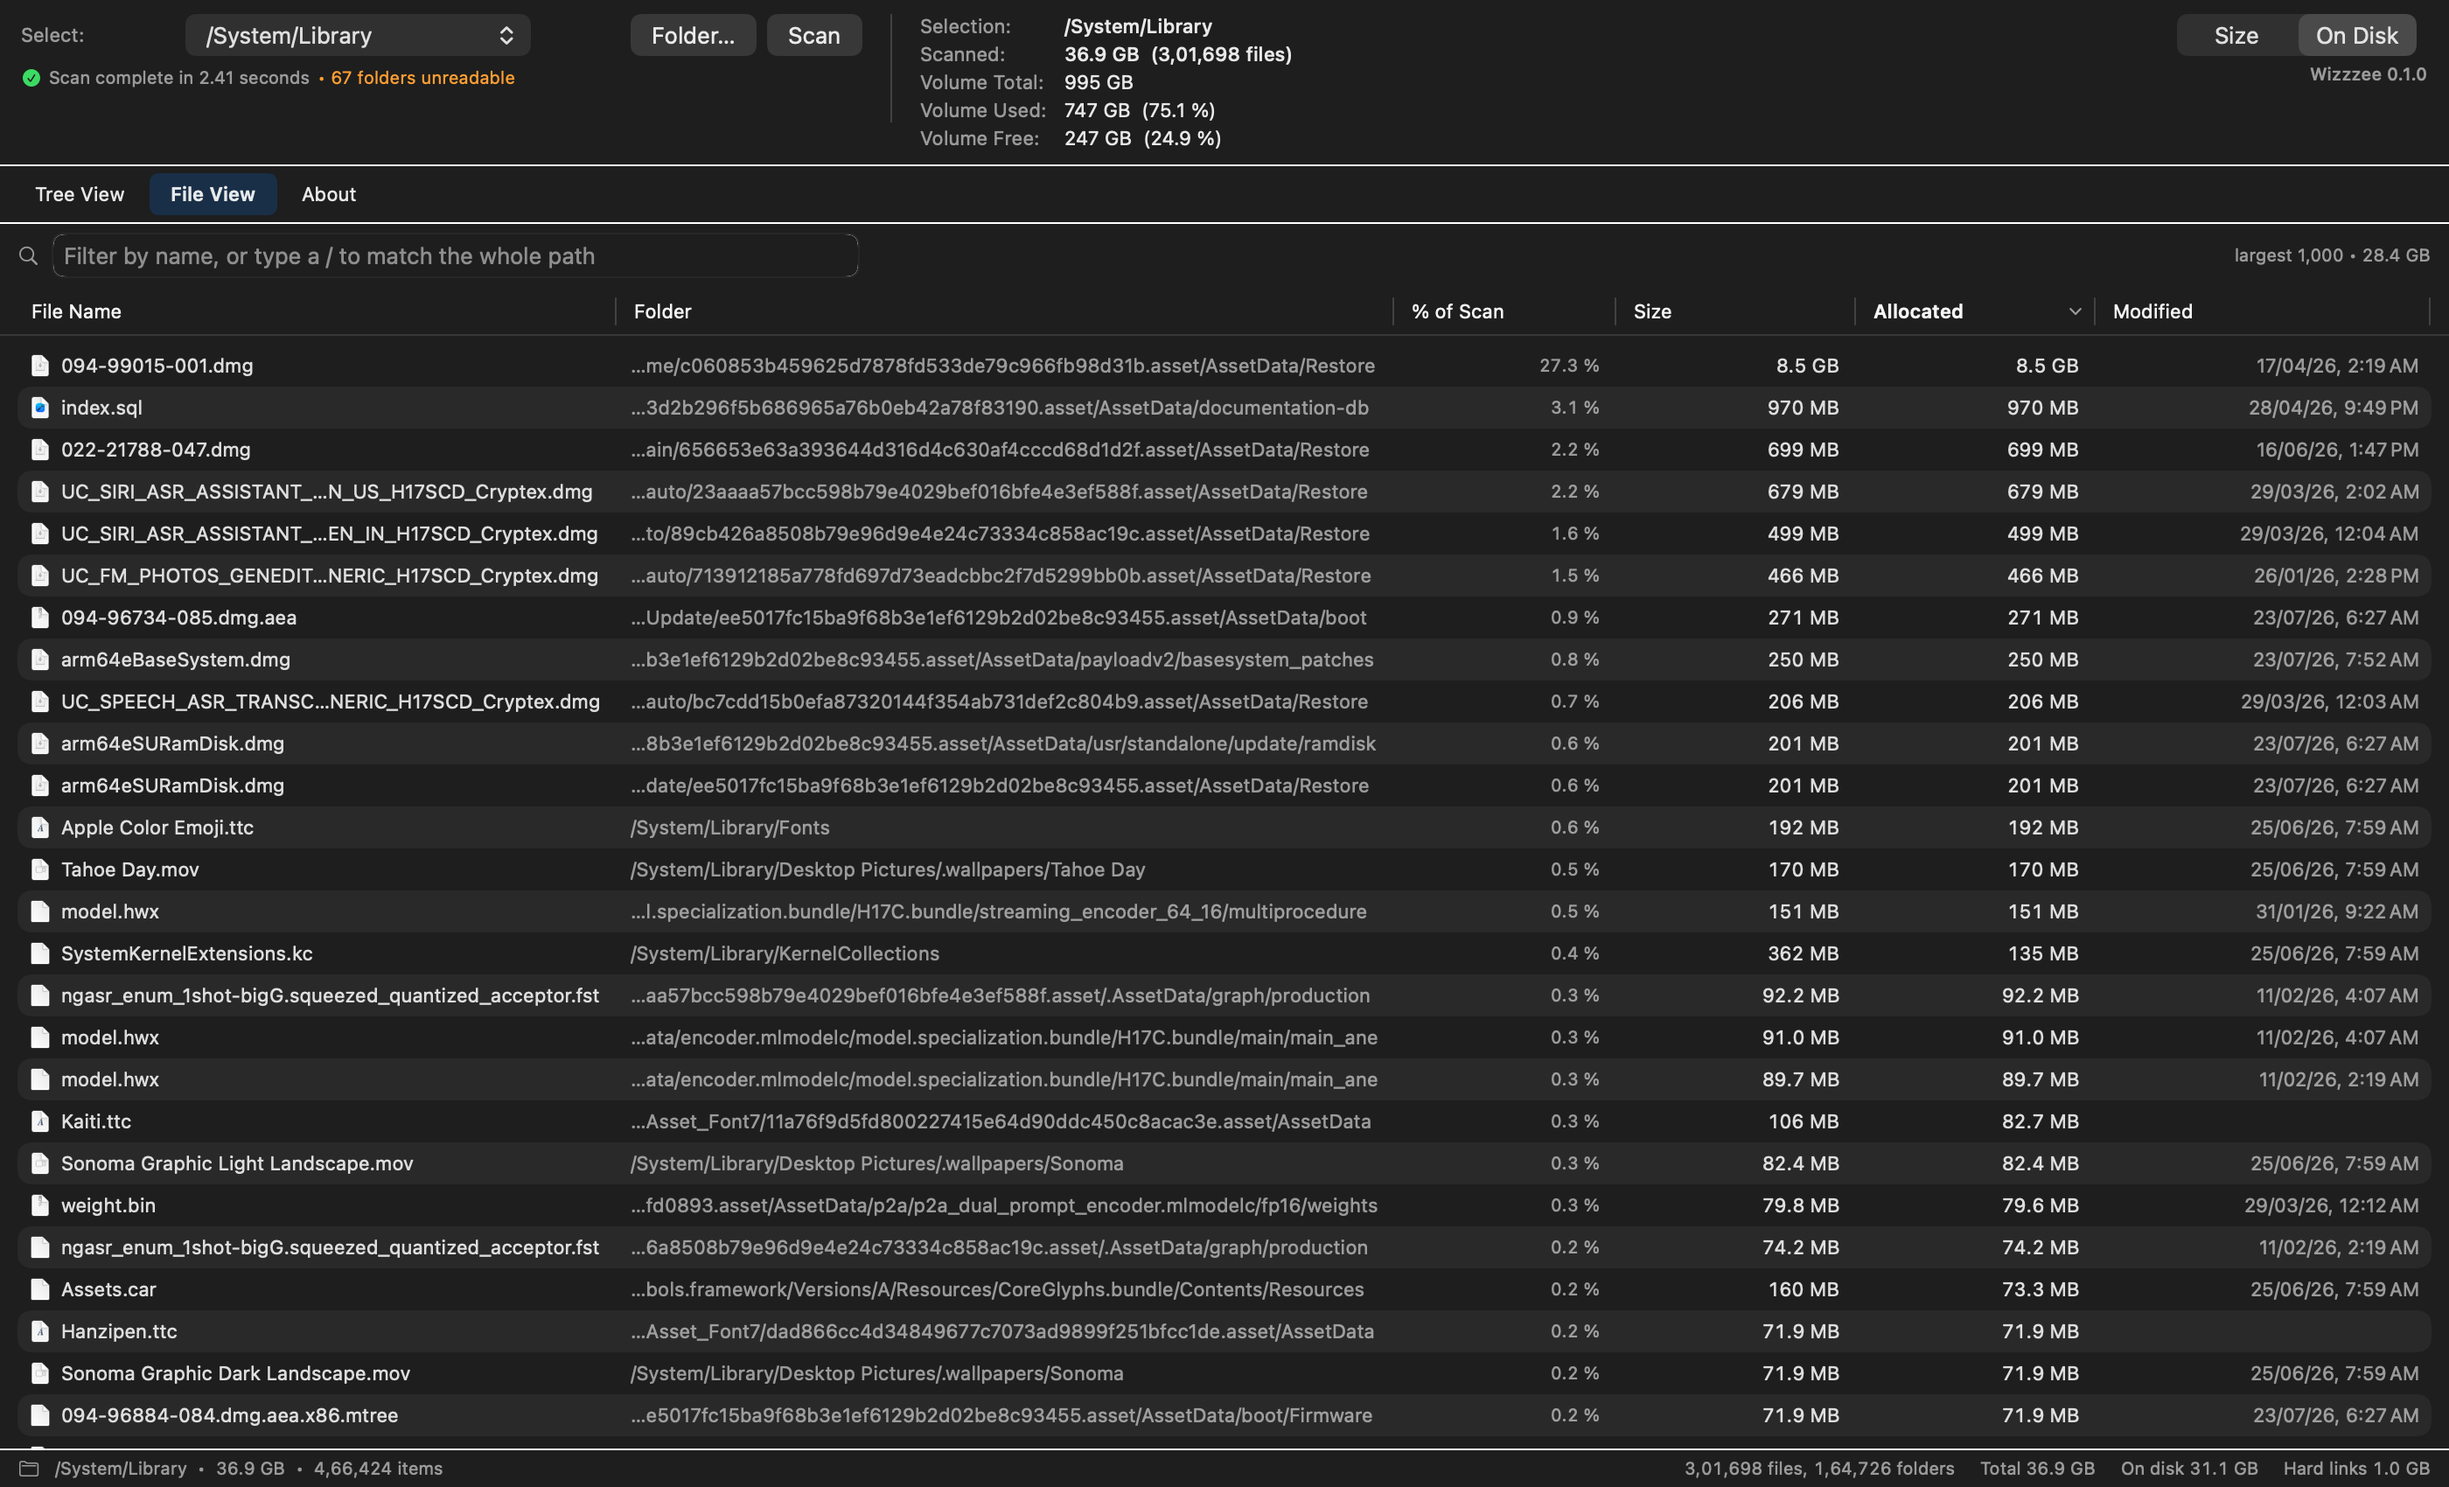
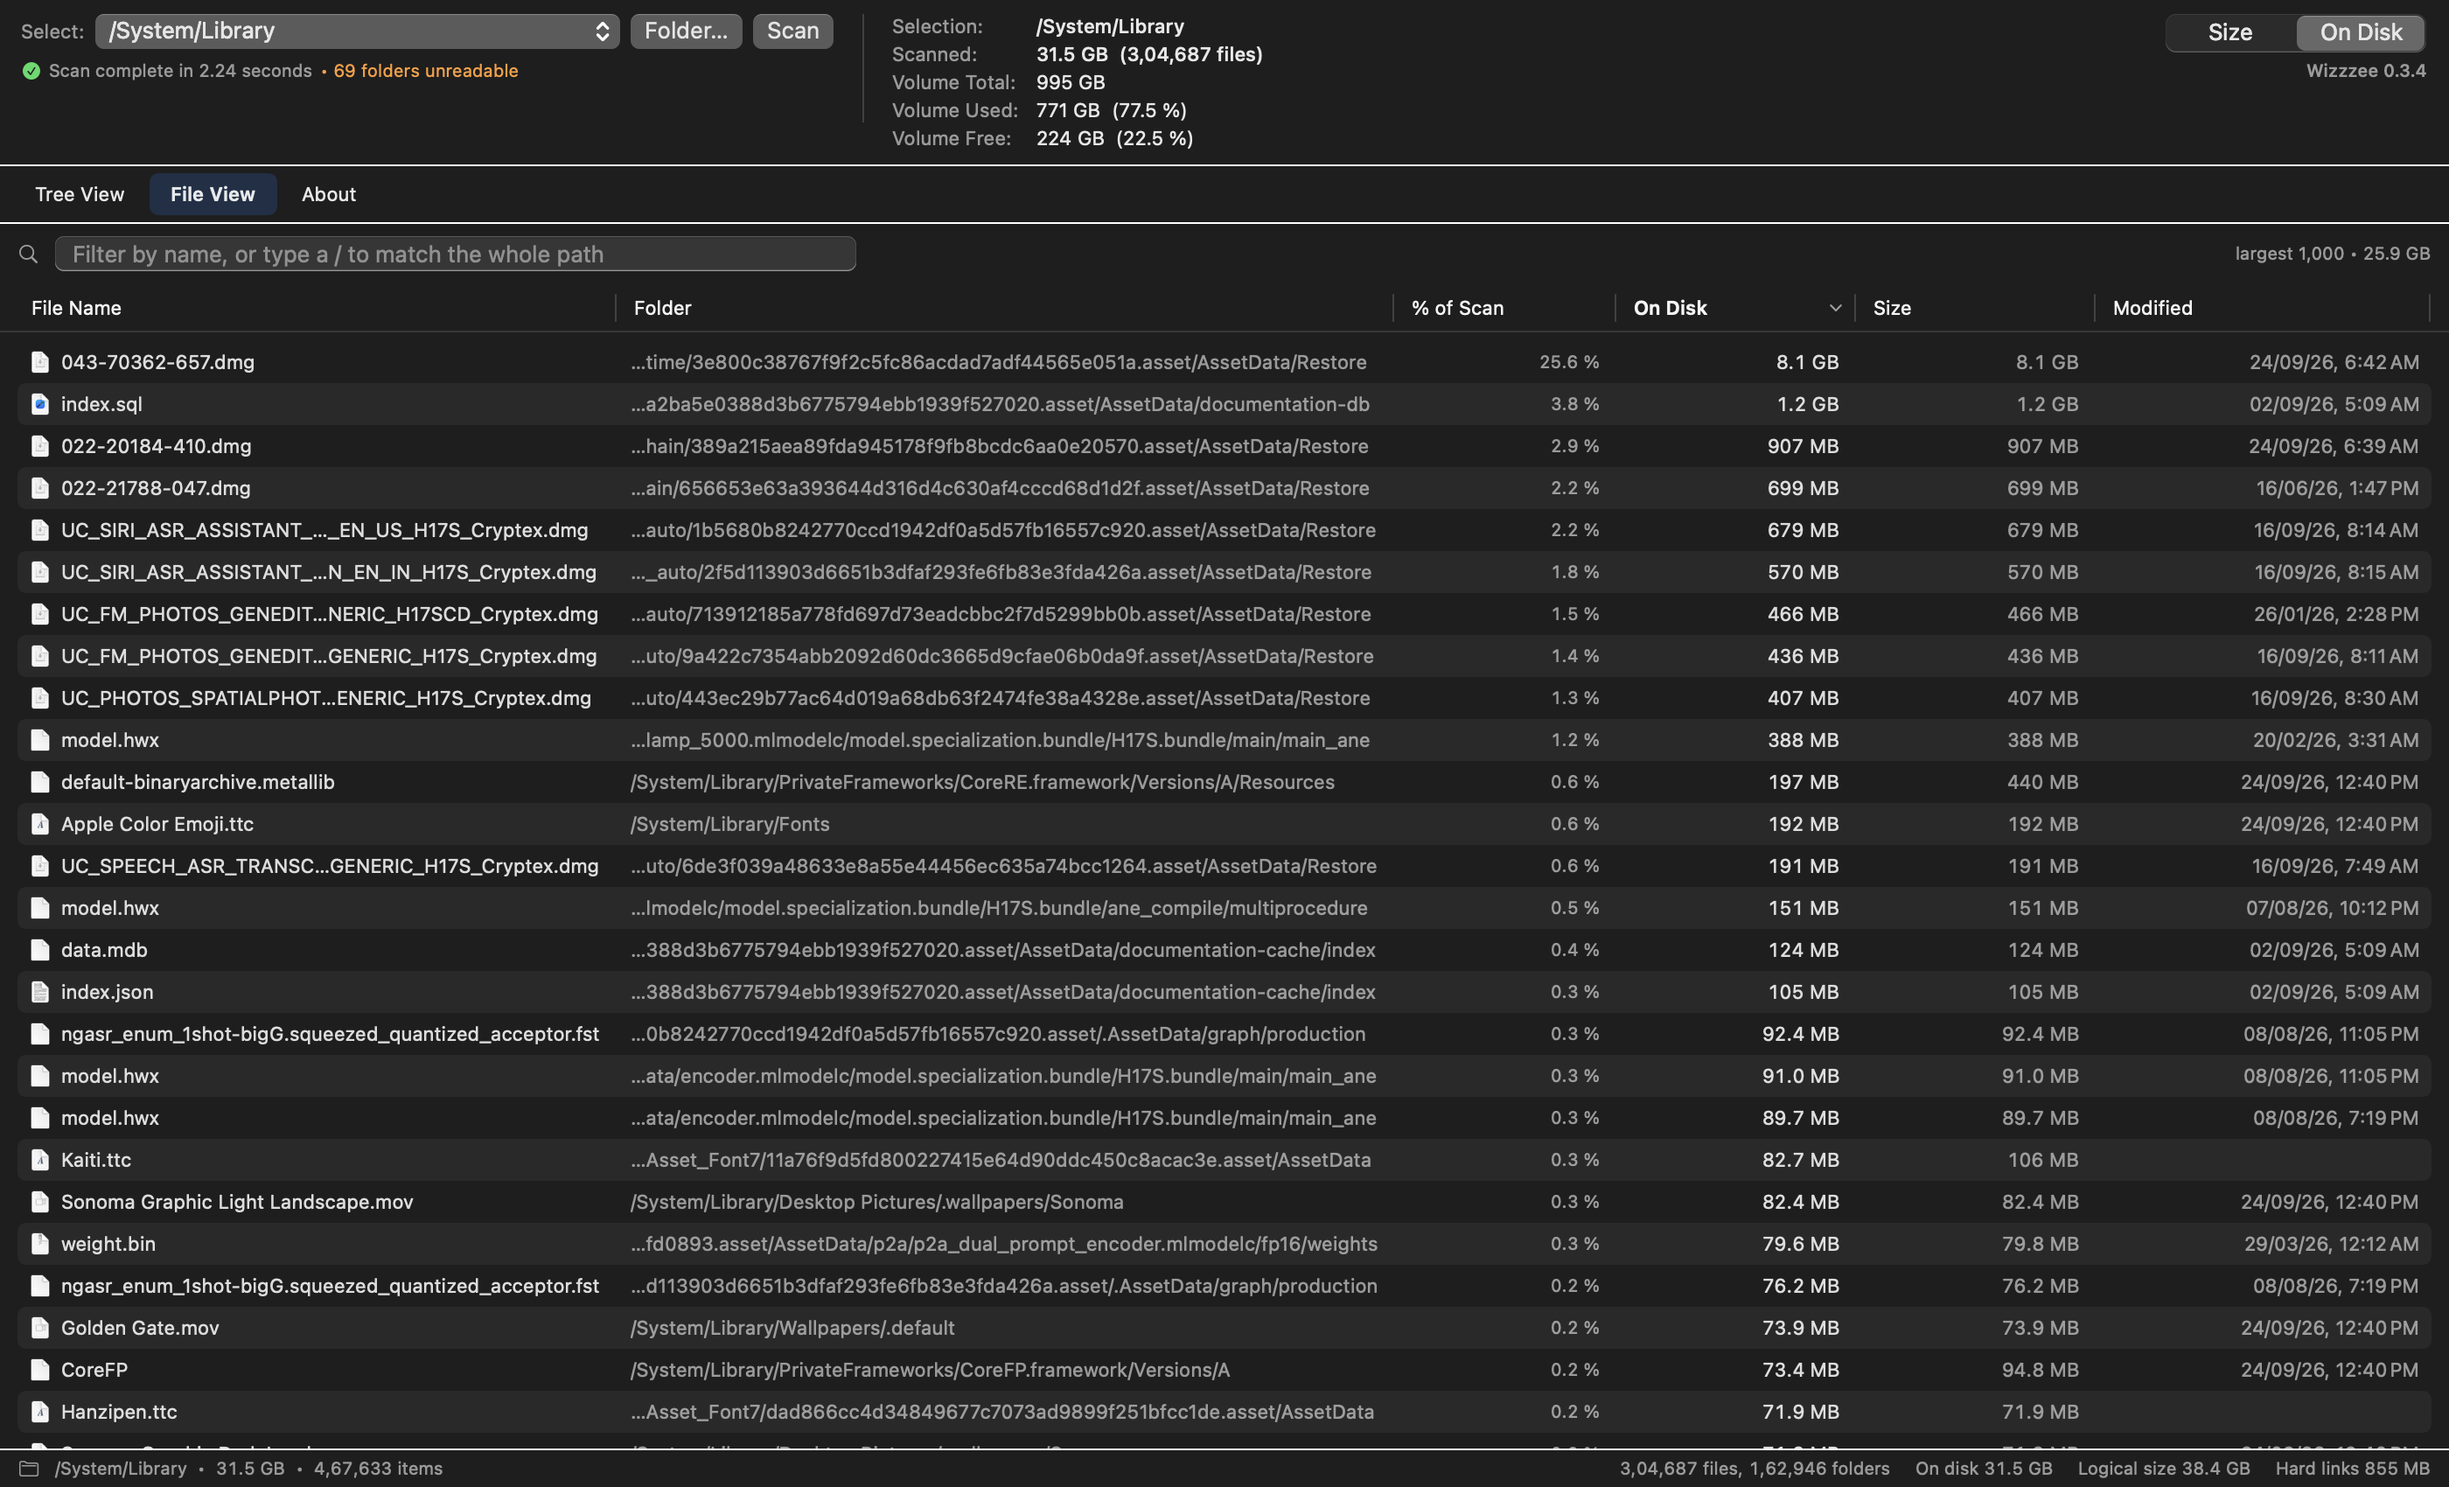
Release 0.3.4
Version 0.3.4, build 10, and the release notes for it.

One change since 0.3.3: a scan was reported in the length of its files
rather than the space they occupy, so a single sparse disk image had a
995 GB disk read as 1.7 TB scanned. The header, the status bar, the
running total and the tables now report the measure on show, and
sparse and cloud-only files are marked.

README: the Tree View and File View screenshots are redrawn from this
build. The old ones were 0.1.0's, with Size ahead of Allocated and a
Scanned figure in lengths.

diff --git a/docs/releases/v0.3.4.md b/docs/releases/v0.3.4.md
@@ -1,0 +1,77 @@
+# Wizzzee 0.3.4
+
+Wizzzee is a disk space analyzer for macOS in the shape of [WizTree](https://diskanalyzer.com/): a folder tree with sizes, a list of the biggest files, and a colored treemap you can click into. It scans a full startup disk — around 3.9 million files — in roughly 15 seconds.
+
+**Upgrade if a scan has ever told you it found more than your disk can hold.** On a 995 GB disk the header read **Scanned: 1.7 TB**, and the home folder showed as 1.6 TB. Nothing had been counted twice and nothing on the disk was wrong: one file was being measured by its length instead of by the space it takes up. That is fixed here, everywhere it showed.
+
+## A scan could add up to more than the disk
+
+Some files are longer than the space they occupy. A virtual machine or container image is created at the size of the disk it pretends to be, and filled in as it is used; the parts nobody has written to yet take up nothing. These are called *sparse* files. On the Mac this was found on, OrbStack's image is 995 GB long and occupies 41.6 GB — on a disk of 995 GB.
+
+Wizzzee has always kept both figures, and has a control at the top right for which one to show: **Size**, the length, or **On Disk**, the space taken. On Disk is the default. The treemap, the percentage bars and the sort order all followed that control. The lines that *sum up* the scan did not — they added up lengths whatever it said:
+
+- the **Scanned** figure in the header
+- the size the status bar gives for whatever is selected
+- the running total under the Scan button while a scan is in progress
+- the figure above the treemap as you hover over it
+
+So the window drew a treemap of 772 GB under a header announcing 1.7 TB, right above the line giving the disk's capacity as 995 GB.
+
+All of them now report whichever measure is on show. With On Disk showing, that same scan reads **Scanned: 772 GB**. Switch to Size and it gives the length *and* what that occupies — `1.7 TB • 772 GB on disk` — because a length is the one figure that can exceed the disk, and it should never sit next to the disk's capacity unexplained. The status bar's **Total**, which was that same sum of lengths, is now called what it is: **Logical size**.
+
+## The tables put space on disk first
+
+The Tree View and the File View both listed **Size** and then **Allocated**. The first number you read for a folder was therefore its files' combined length — 1.2 TB for the folder holding that image — sitting beside a percentage bar worked out from the 198 GB it actually occupies.
+
+The columns are now **On Disk** and then **Size**, named as the control names them. Whichever one is not on show is dimmed.
+
+Changing the control also re-sorts. If a table was ordered by the measure you were looking at, it is now ordered by the one you switched to; before, it stayed ranked by the old one under bars that no longer ran in order. An order you chose for its own sake — by name, by date, or by the measure that *wasn't* on show — is left alone.
+
+## Sparse and cloud-only files are marked
+
+Until now the only sign of a sparse file was two columns that disagreed, with nothing to say which to believe.
+
+- A file with parts that were never written is marked **sparse**.
+- A file whose contents are being held by iCloud or another cloud provider, and are not downloaded, is marked **online only**.
+
+Hover over the mark for both figures. Compressed files also occupy less than their length — most of macOS's own programs do — but nothing of theirs is missing, so they are left unmarked.
+
+The sparse mark appears on APFS volumes, which is what every modern Mac's own disk uses. On other kinds of volume the difference between the two columns is still shown but not explained, because there it can mean other things.
+
+## A delete could promise space it wouldn't free
+
+With **Size** showing, the confirmation before a permanent delete quoted the file's length: delete that image and it said 995 GB would be reclaimed. It frees 41.6 GB. The confirmation now states the space on disk whichever measure the tables are in.
+
+## Small things
+
+- The **Hard links** figure in the status bar was a sum of lengths, quoted beside a total of space on disk. It is now space on disk as well.
+- The treemap's tooltip led with the length even when the tiles were sized by space on disk. It now leads with whichever the tiles are drawn from, and names both.
+- `Wizzzee --scan` ranked its lists of the largest folders, files and types by length, so one sparse image headed all three. They are ranked by space on disk — the figure `du` prints — with the length in brackets where it differs.
+
+## If you compare Wizzzee with another tool
+
+This bug was found by checking a scan against CleanMyMac's Space Lens. With it fixed, the two still won't agree to the gigabyte, and neither is wrong:
+
+- **Hard links.** A file can have more than one name. Wizzzee counts its space once, as `du` does. A tool that counts every name in full shows folders full of hard links — package stores, developer caches — as larger. On the Mac in question that was 23 GB of the home folder. The system's own `/bin` shows it in miniature: 6.3 MB in Wizzzee and `du`, 7.2 MB with each name counted.
+- **Used space.** Wizzzee's **Volume Used** is everything not physically free. macOS also keeps *purgeable* space — caches and local snapshots it will delete when room is needed — and Finder and some tools count that as available. That is why Wizzzee can say 807 GB used where another says 763 GB.
+
+## Installing
+
+Download `Wizzzee-0.3.4-macos-universal.zip` below, unzip it, and move `Wizzzee.app` to Applications, replacing the old one.
+
+- **First launch.** The app is not notarized, so macOS blocks it the first time. Open it once, dismiss the warning, then go to **System Settings → Privacy & Security** and click **Open Anyway**. macOS asks only once.
+- **Full Disk Access has to be granted again.** macOS ties that permission to the exact build, so the grant from an earlier version does not carry over. In **System Settings → Privacy & Security → Full Disk Access**, remove the old Wizzzee entry and add the new app. Without it, Mail, Messages, Safari and other users' folders are skipped and the totals read low.
+
+It runs on macOS 14 or newer, on Apple silicon and Intel.
+
+## Internal
+
+The scanner's numbers were never wrong. Space on disk matched `du -sk` to the kilobyte on every folder it was checked against, before this change and after. What was wrong was which of two correct numbers got shown, in the handful of places that had been written to read a file's length directly rather than ask which measure was on show. Those places now ask.
+
+A sparse file is recognised from what the scan already reads rather than by asking the filesystem for its own flag, which would have cost every scan a second set of attributes per file. The two were compared over the 3.1 million files of a home folder and picked out the same 85. Scan time and peak memory are unchanged: 10.5–11.2 seconds and 457–460 MB on that folder, before and after.
+
+The change was reviewed three times by a second model before it was merged. The first pass found seven problems in it — among them, that marking sparse files by that rule would have mislabelled every file on a network share that reports no allocation — and all were fixed before anything shipped.
+
+The self-test grew from 249 checks to 297. One builds a sparse file twice the length of the volume it sits on and checks that what the scan reports still fits on that volume. Each new check was confirmed to fail with its fix taken out, and the suite runs clean under both the thread and the address sanitizer.
+
+One thing was not done. 0.3.3 came out of a model clicking through the released app, and the same pass was planned here; it could not run, because the test Mac's screen was locked. The window was instead rendered headlessly in both measures and read by eye, and what the control and the tables do when clicked is covered by the self-test — but this build has not been clicked through.
